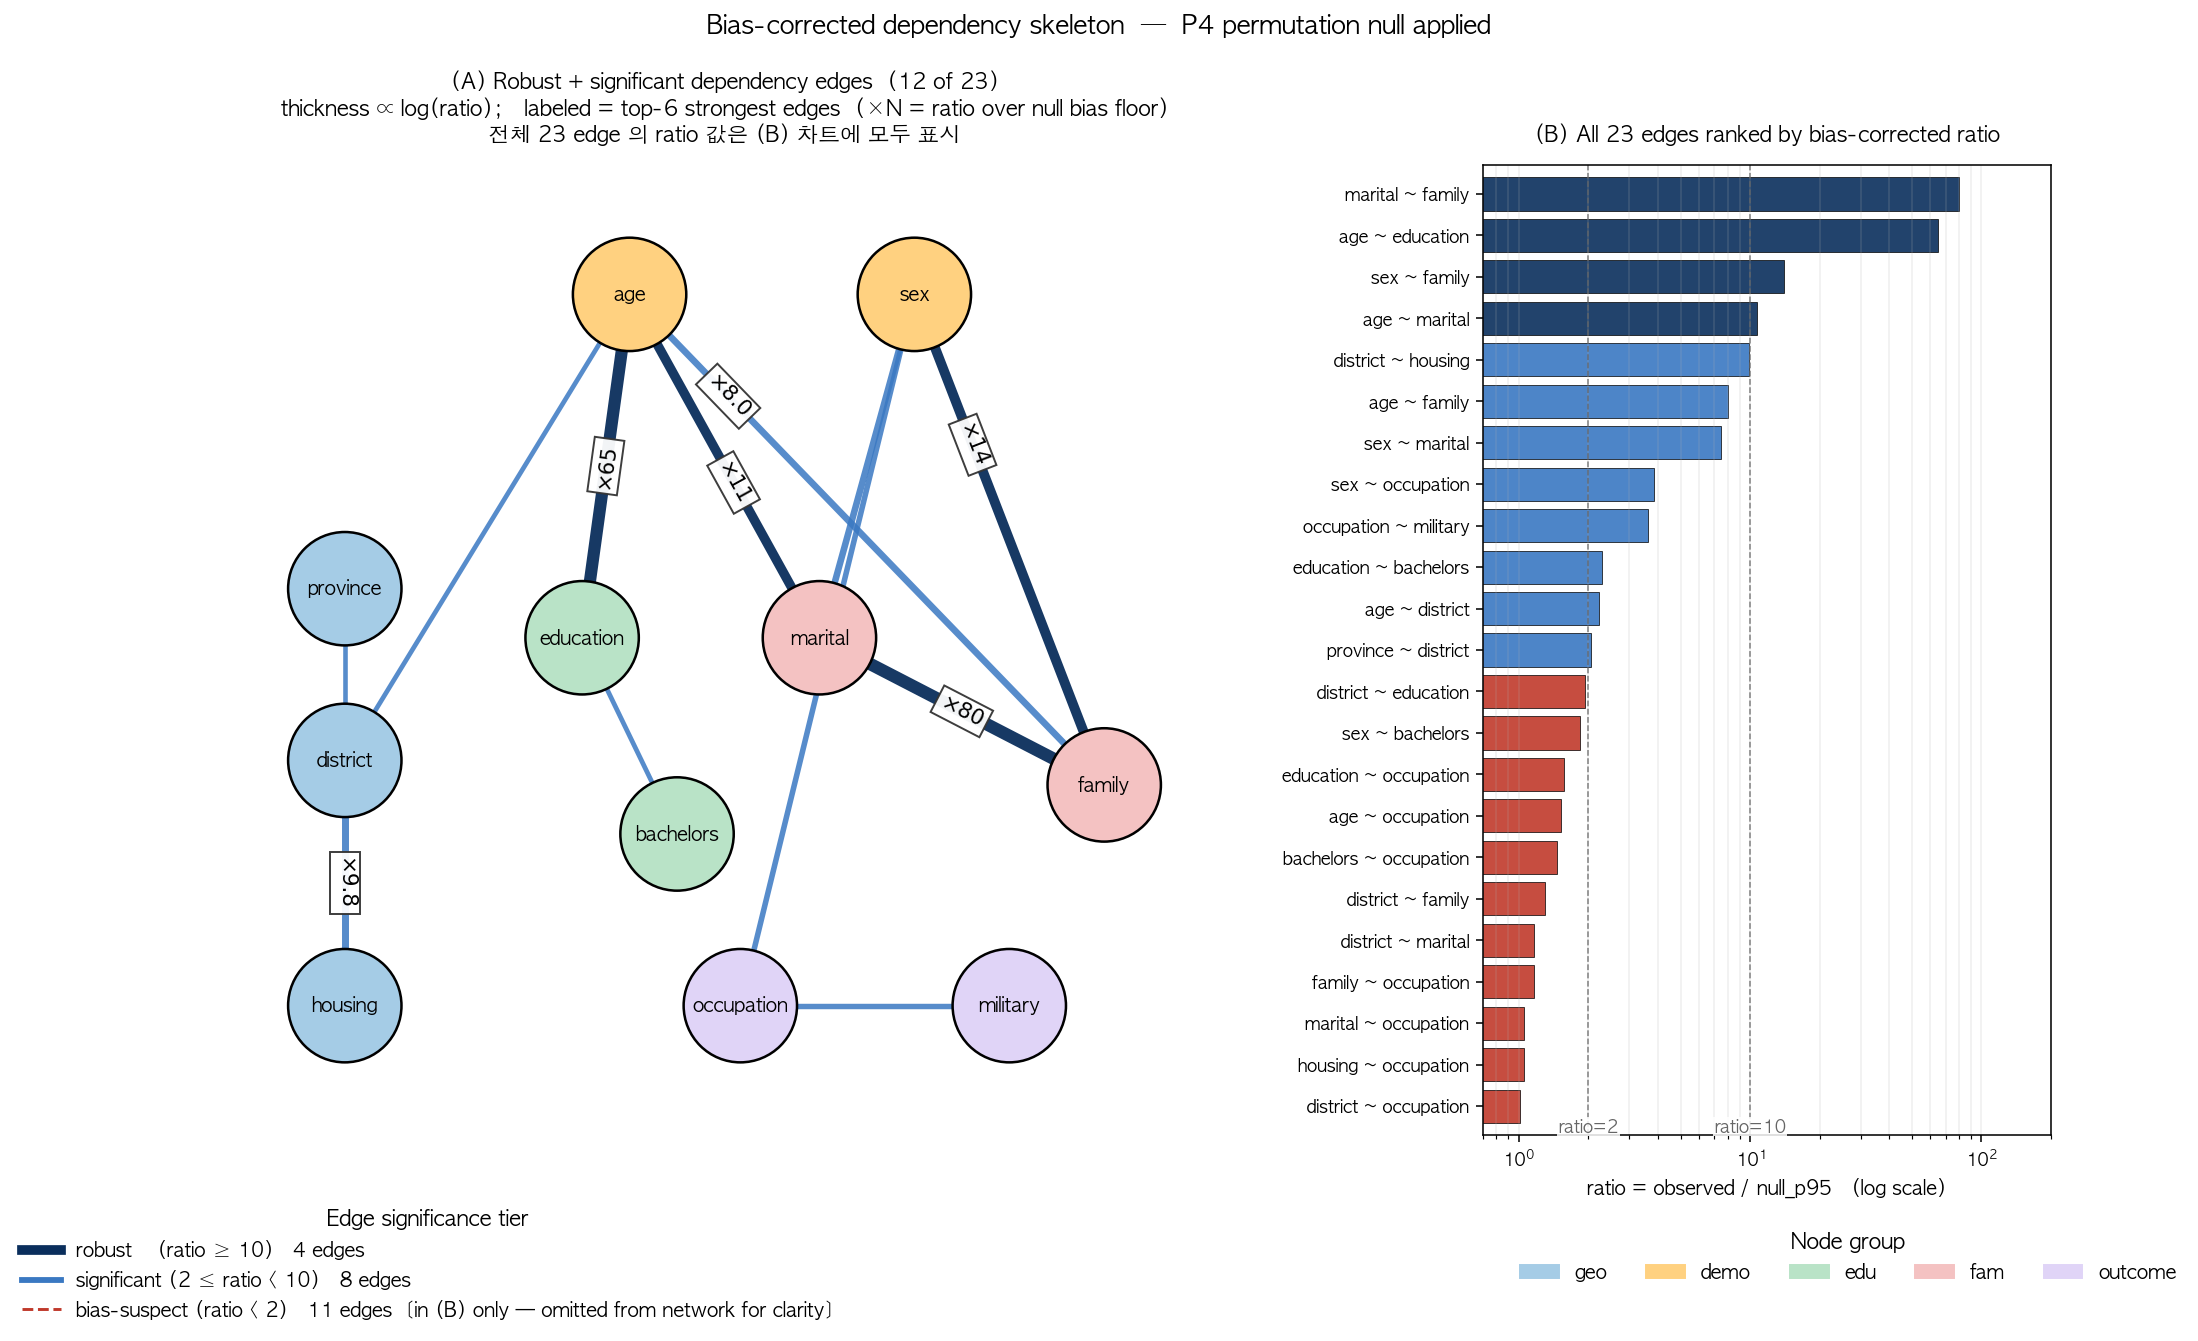
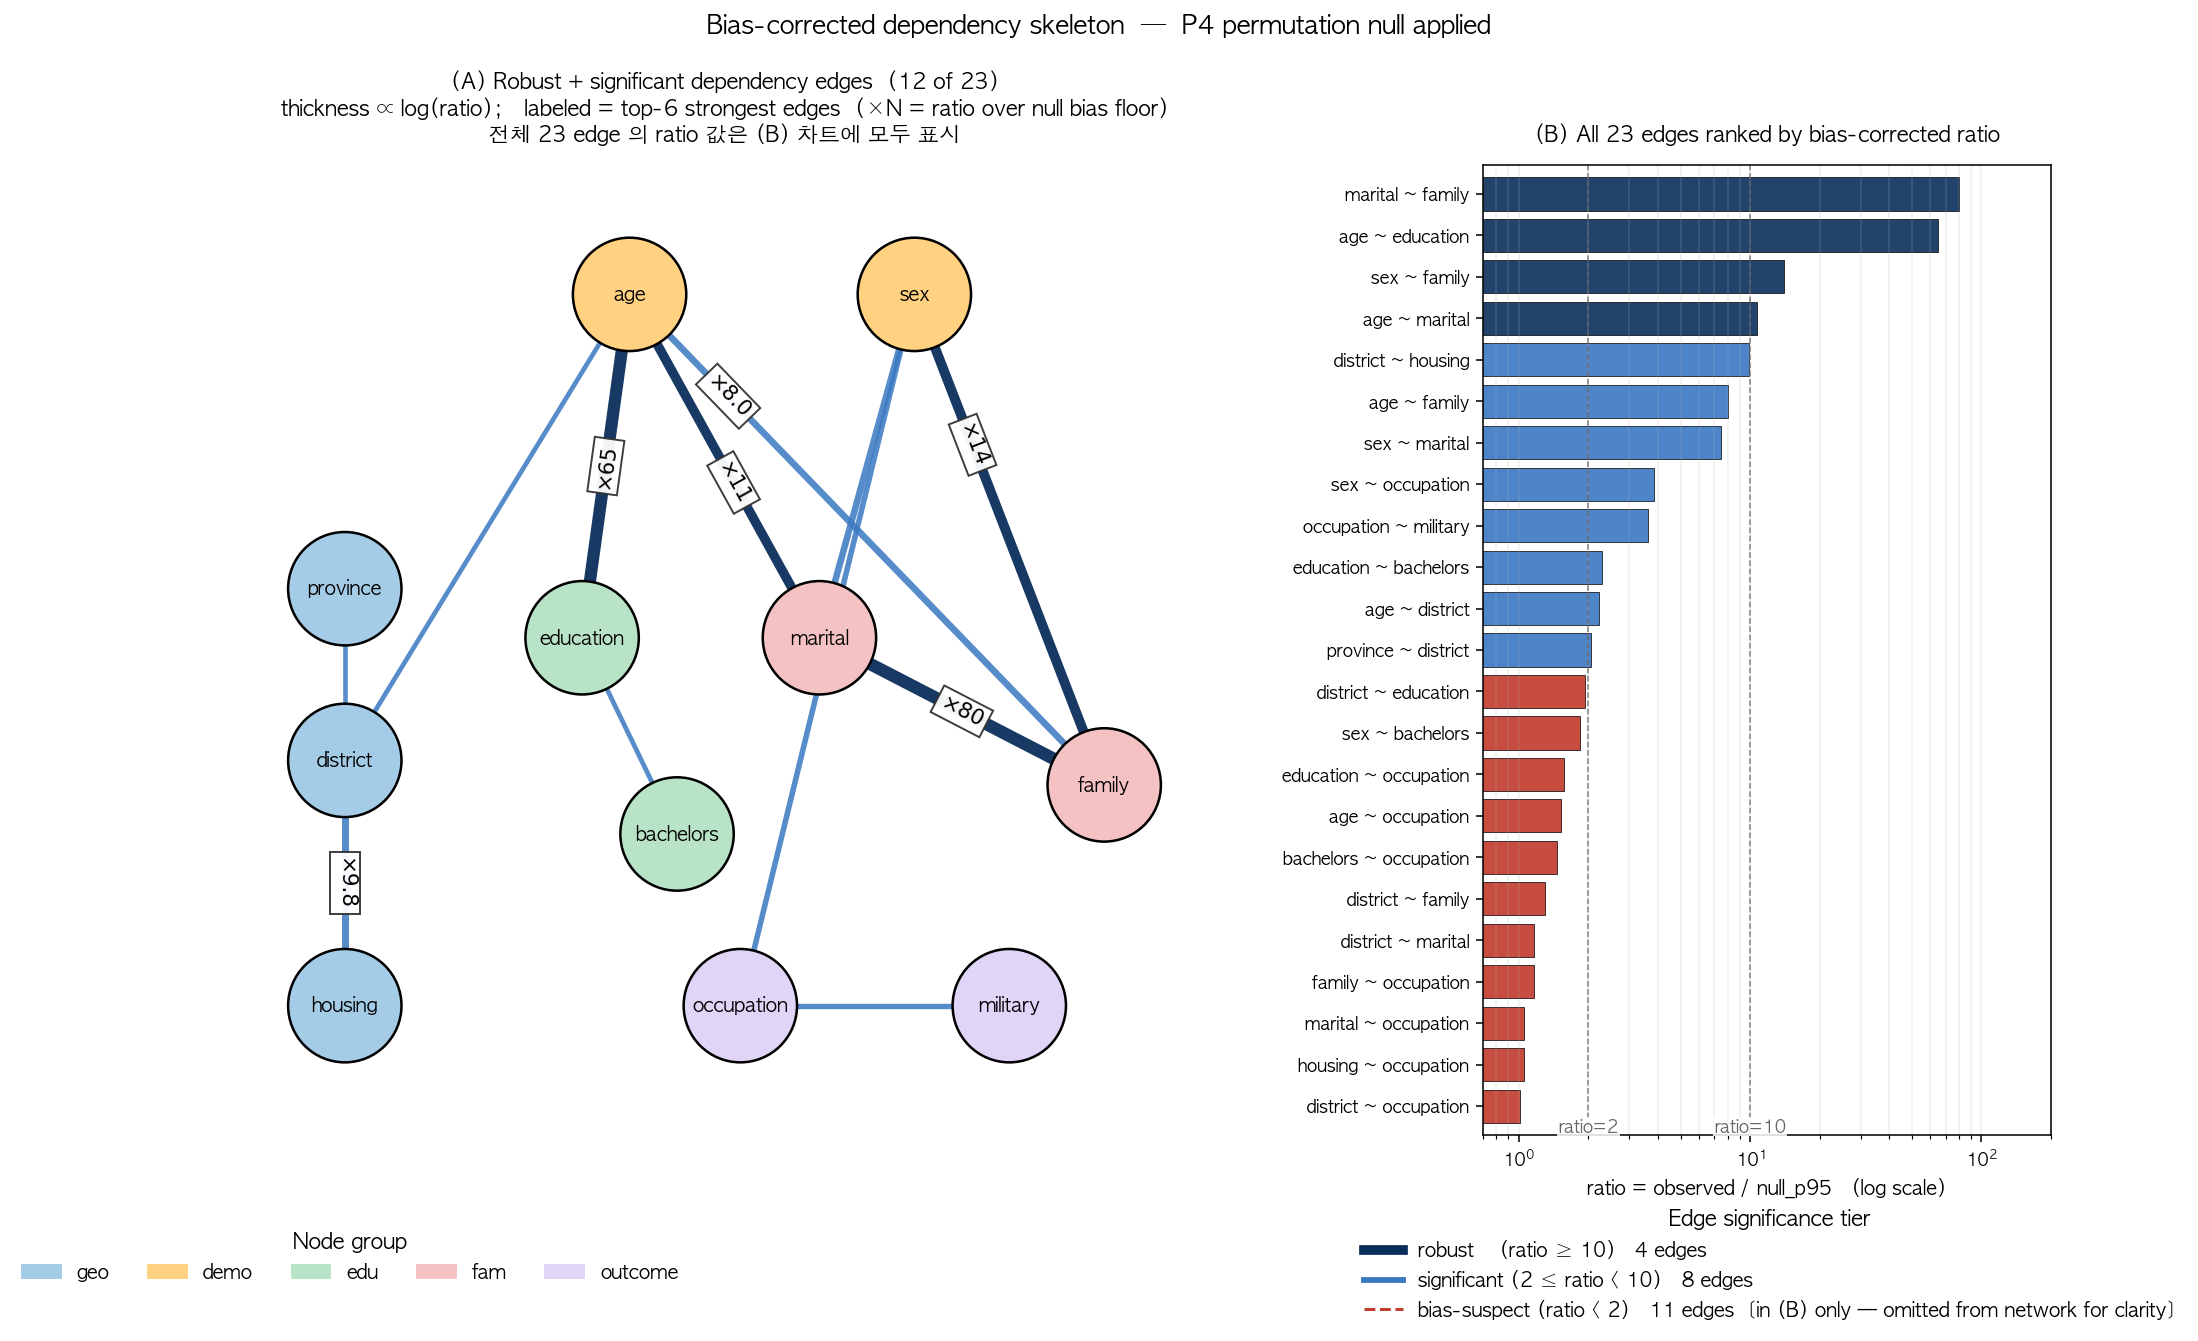
fix(figure): swap legend positions in bias-corrected skeleton — node group → 좌하 (panel A), edge tier → 우하 (panel B)
이전 배치: Edge tier 좌하 (panel A의 edge들과 가까움) / Node group 우하 (panel A의 노드와 멀어짐)
변경: Node group 이 panel A 의 노드 바로 아래로, Edge tier 가 panel B 의 색칠된 막대 바로 아래로 — 시선 흐름이 자연스러워짐

Changed region(s): [[0.6187, 0.8867, 0.99, 0.9784], [0.0, 0.8867, 0.2475, 0.9784], [0.2475, 0.9172, 0.3094, 0.9784]]

diff --git a/scripts/19_bias_corrected_skeleton.py b/scripts/19_bias_corrected_skeleton.py
@@ -206,11 +206,13 @@ def main() -> None:
                          "[in (B) only — omitted from network for clarity]"),
     ]
     grp_handles = [mpatches.Patch(color=GROUP_COLOR[g], label=g) for g in GROUP_COLOR]
-    fig.legend(handles=tier_handles, loc="lower left", bbox_to_anchor=(0.04, -0.05),
+    # Node group → 좌하 (panel A 의 노드에서만 사용)
+    fig.legend(handles=grp_handles, loc="lower left", bbox_to_anchor=(0.04, -0.02),
+               fontsize=10, title="Node group", title_fontsize=11, frameon=False, ncol=5)
+    # Edge significance tier → 우하 (panel B 막대에 색으로 바로 적용)
+    fig.legend(handles=tier_handles, loc="lower right", bbox_to_anchor=(0.96, -0.05),
                fontsize=10, title="Edge significance tier",
                title_fontsize=11, frameon=False, ncol=1)
-    fig.legend(handles=grp_handles, loc="lower right", bbox_to_anchor=(0.96, -0.02),
-               fontsize=10, title="Node group", title_fontsize=11, frameon=False, ncol=5)
 
     fig.suptitle(
         "Bias-corrected dependency skeleton  —  P4 permutation null applied",